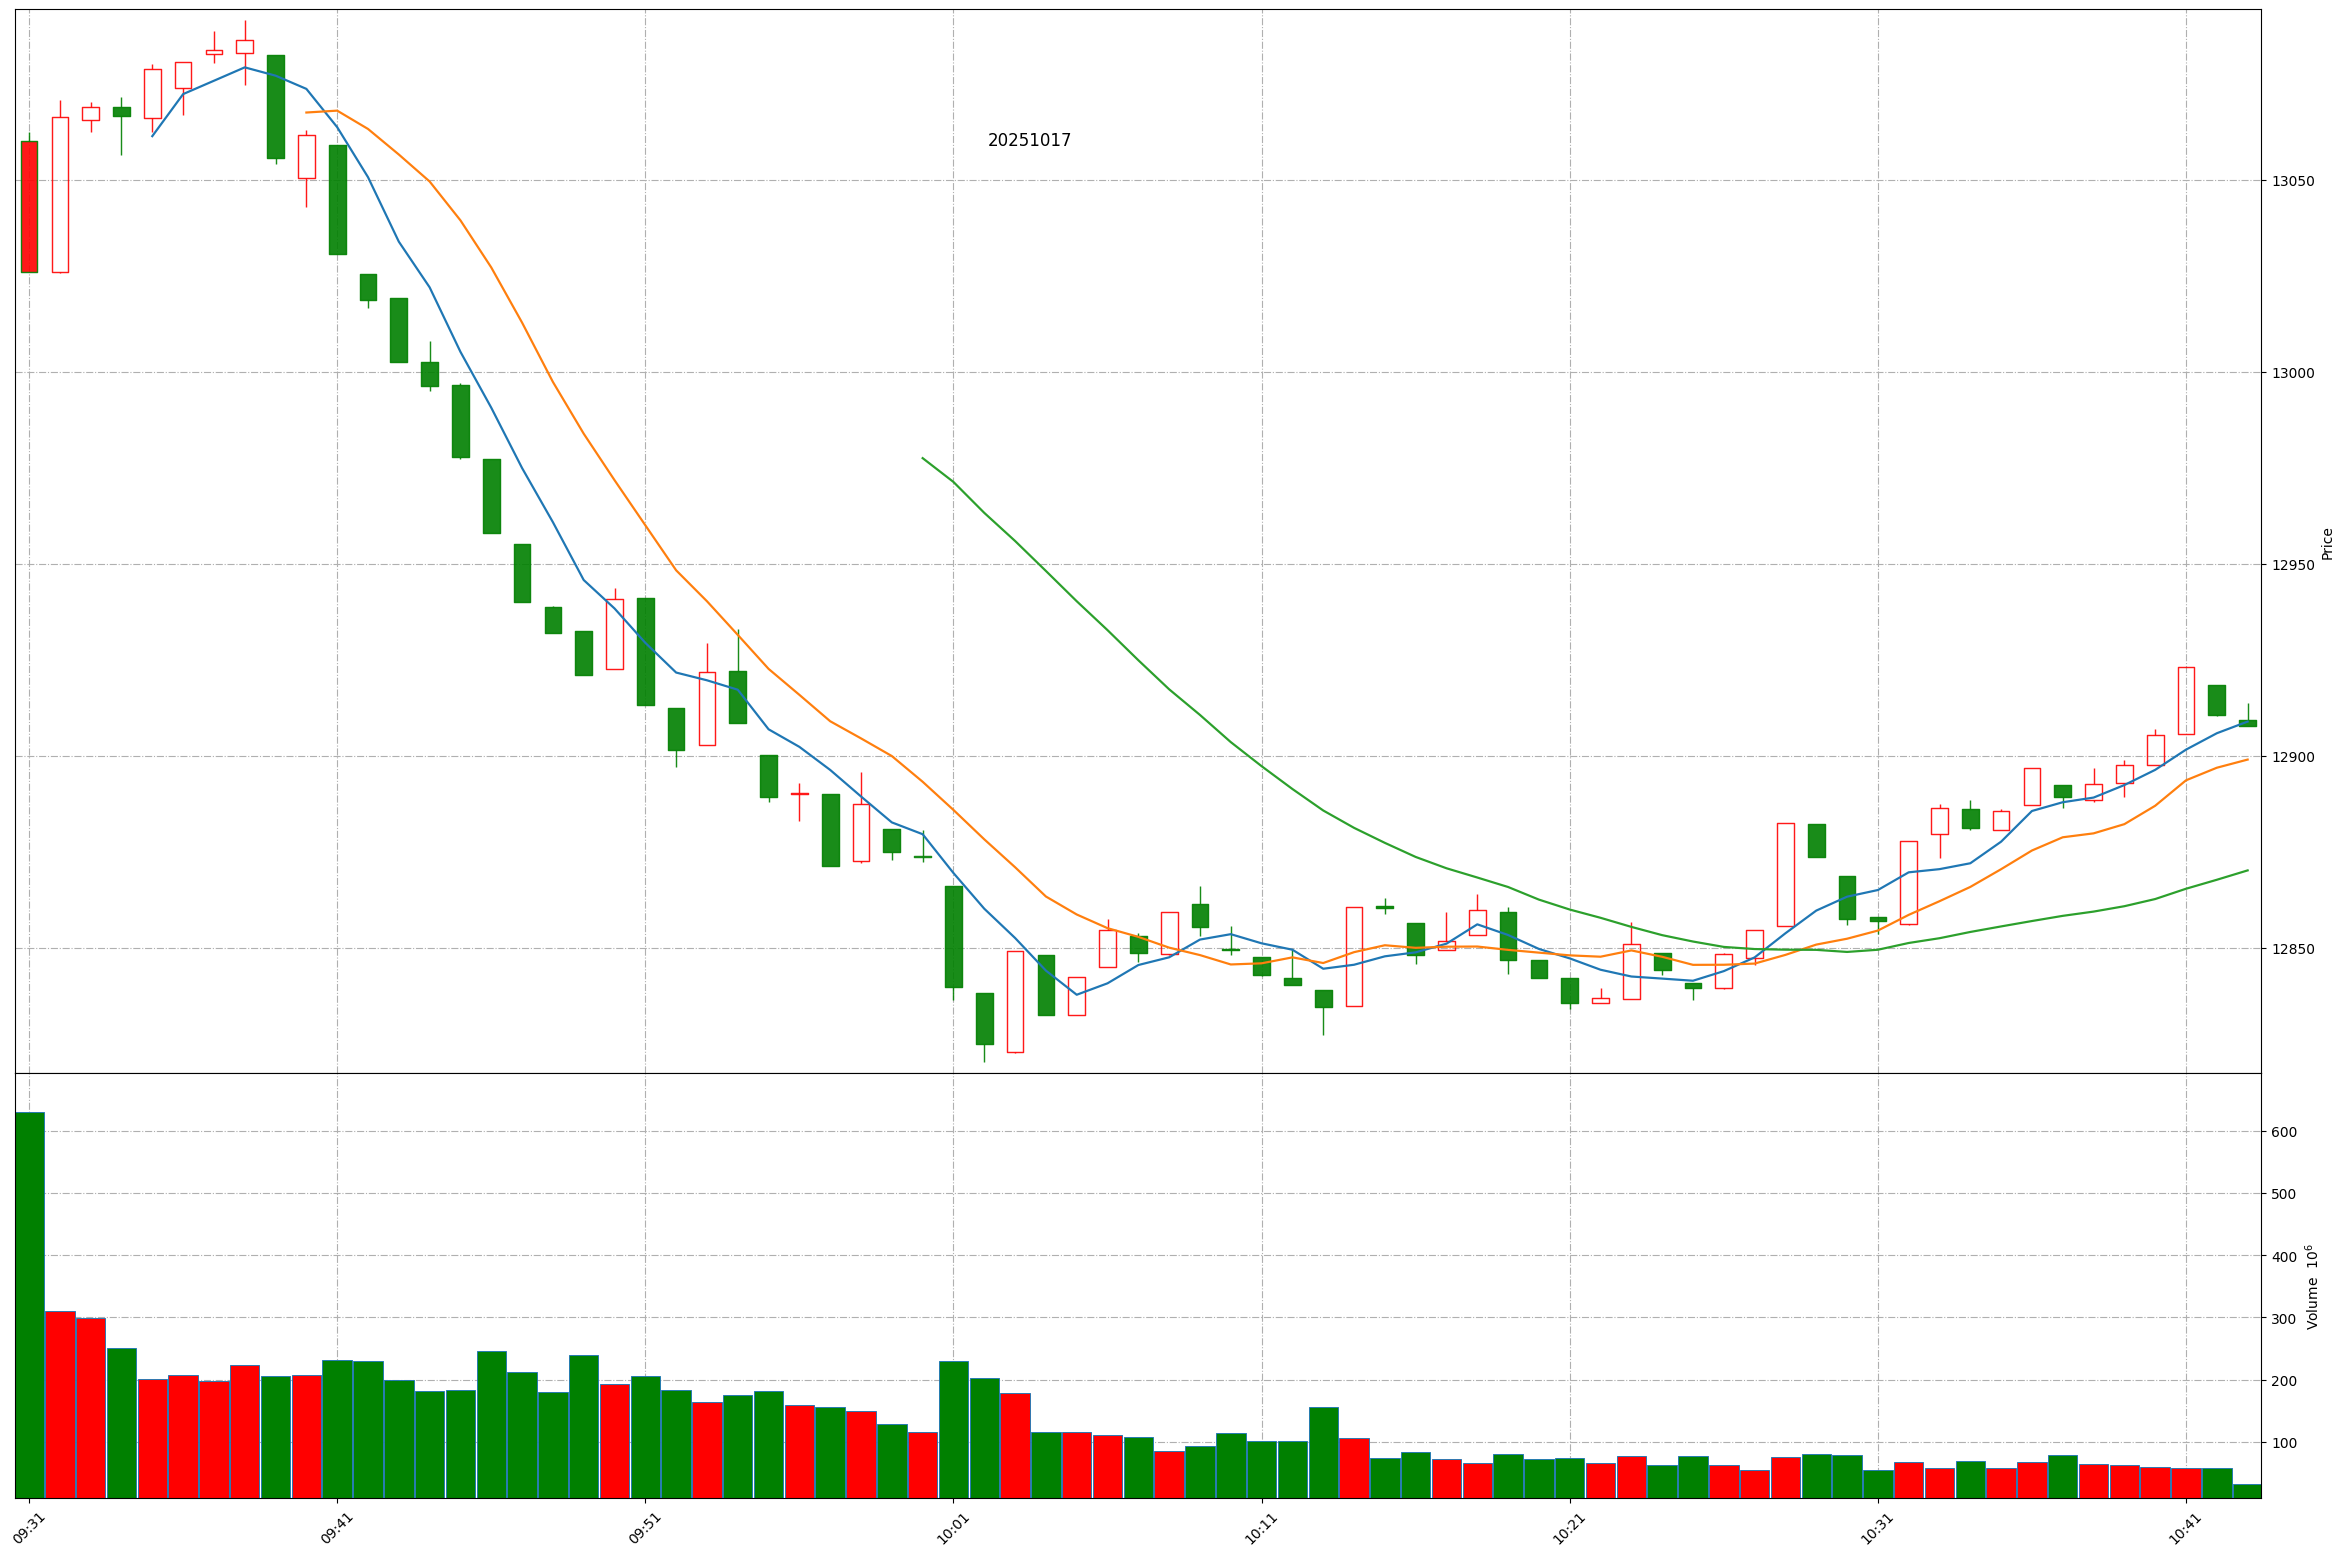
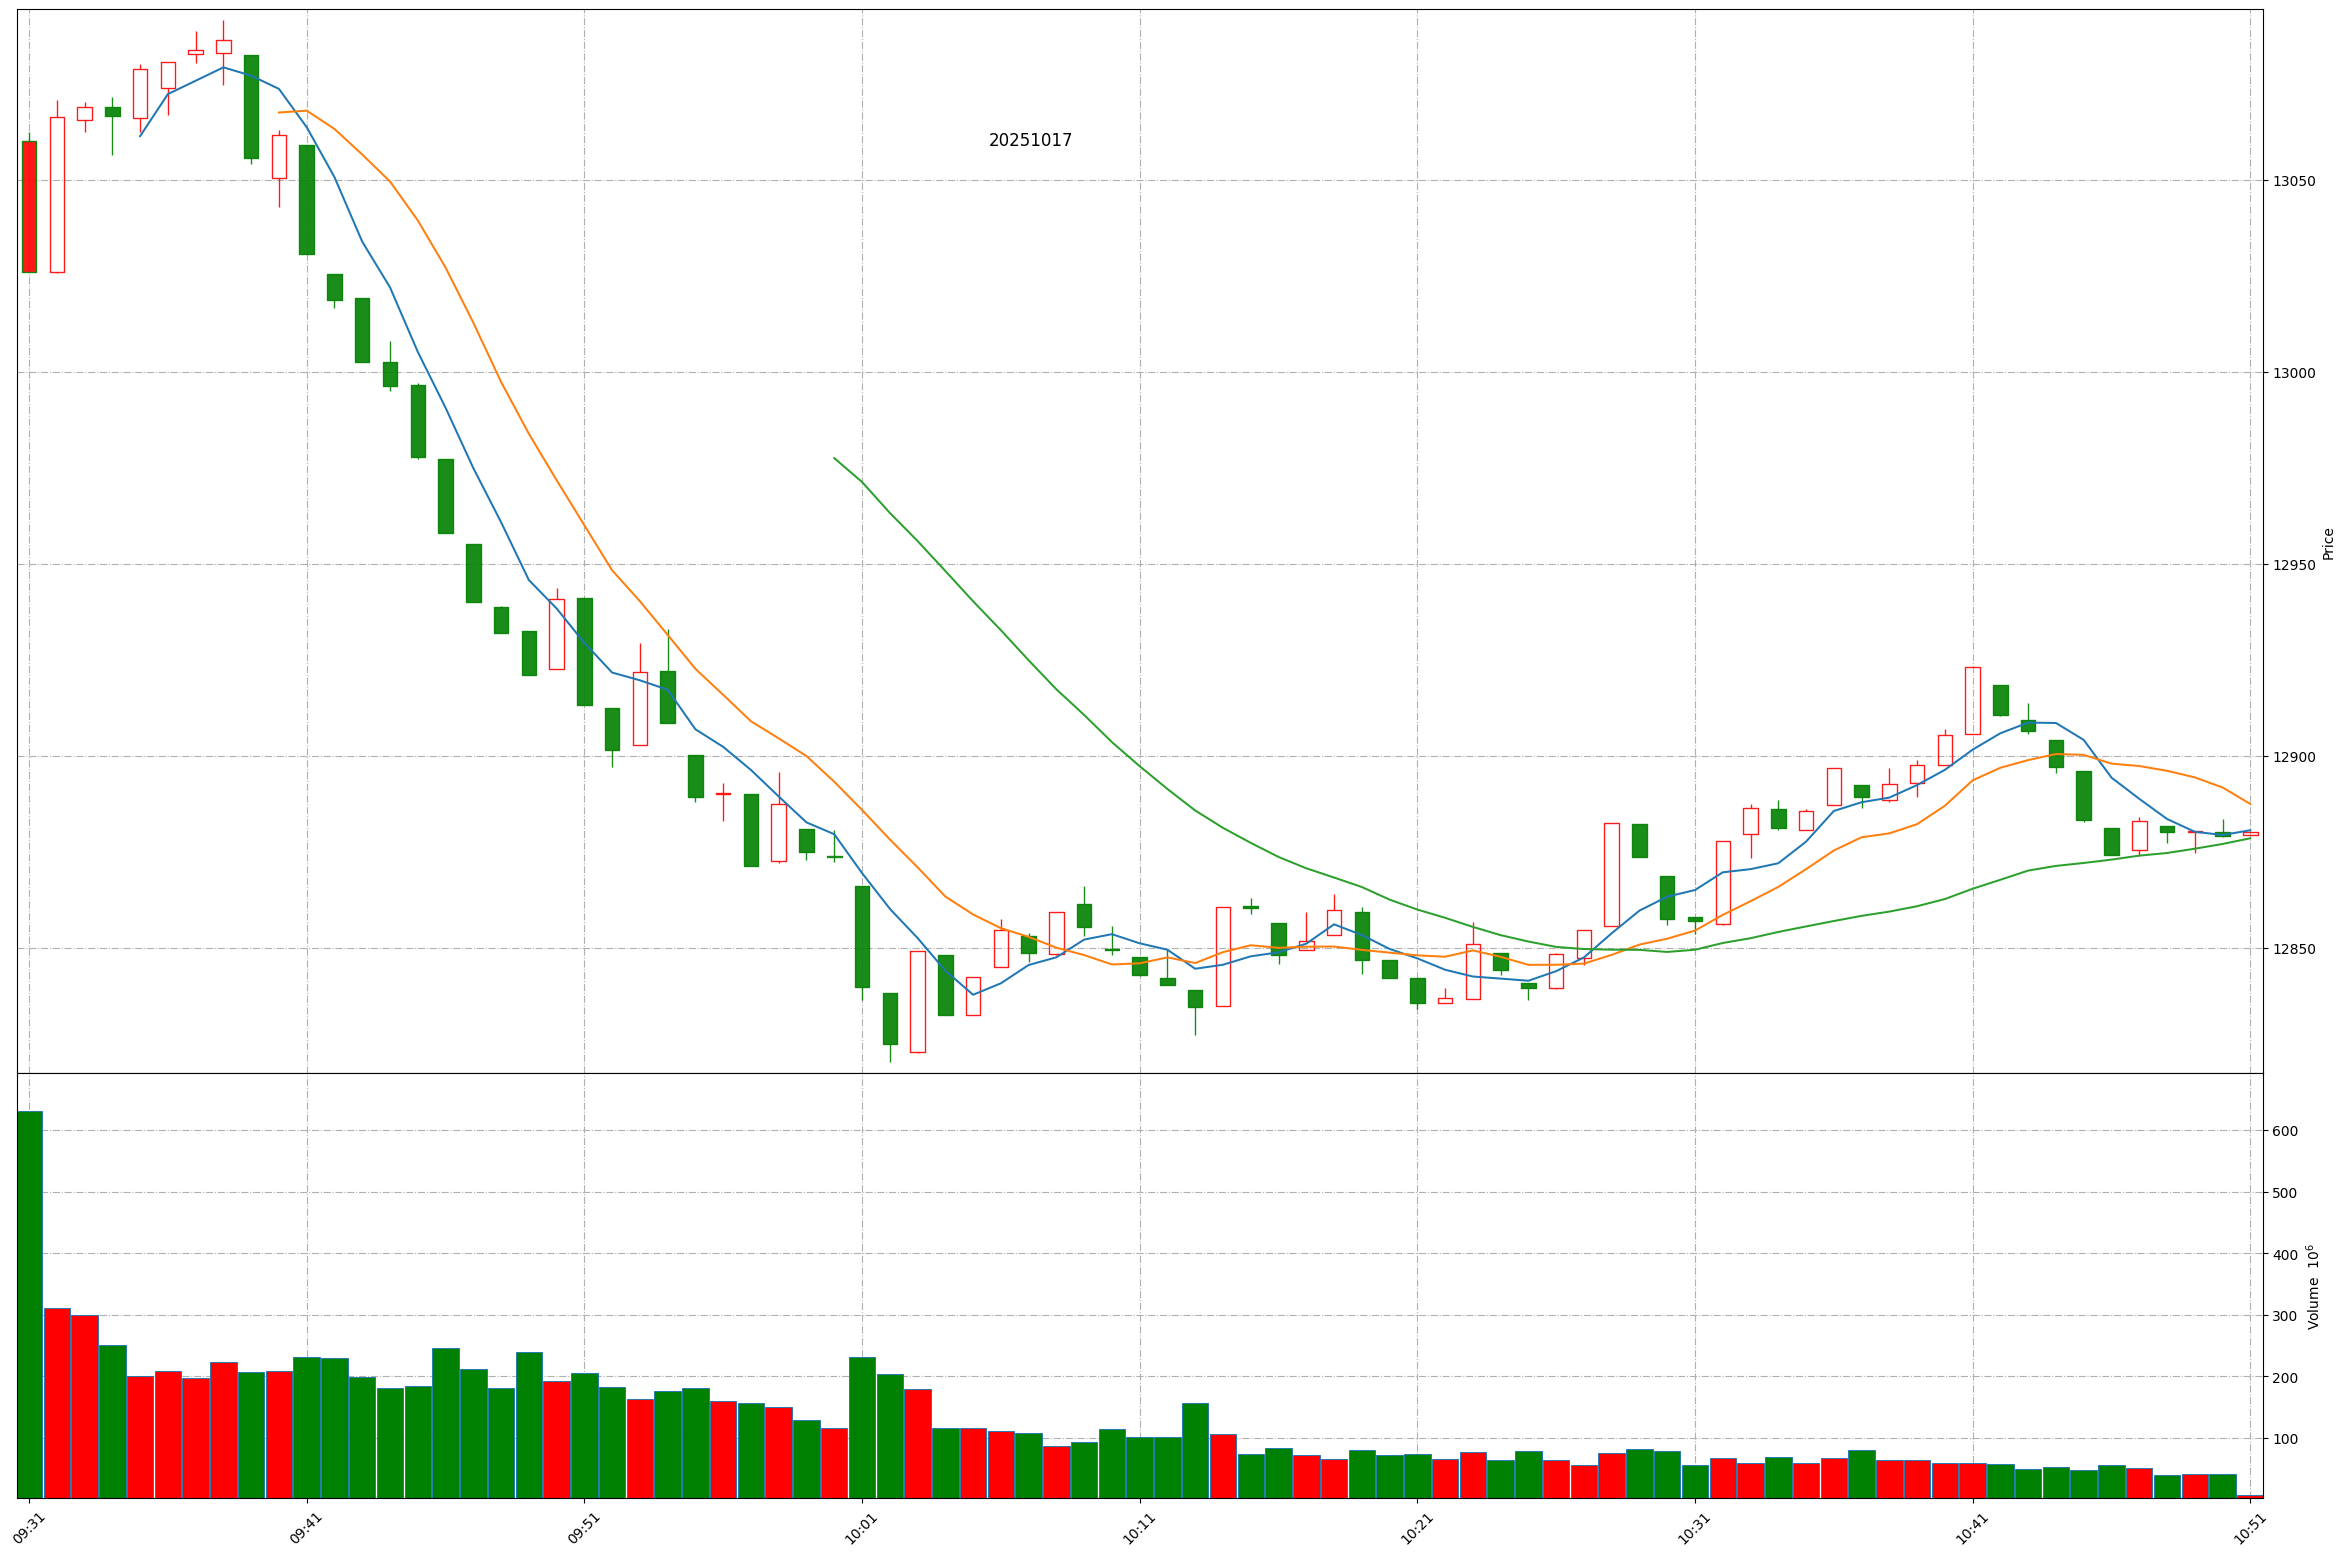
Github action update at 2025-10-17 10:50:30.

Changed region(s): [[0.0, 0.0308, 0.9654, 0.6787], [0.0, 0.8329, 0.9654, 0.9871]]

diff --git a/README.md b/README.md
@@ -1,11 +1,11 @@
 
 # Daily-A-share-market-quotes 每日 A 股指数（5min 更新）- 20251017
 
-### 上证指数 20251017 10:42
+### 上证指数 20251017 10:50
 ![](./fig/2025/10/20251017-sh000001.png)
 
-### 深证成指 20251017 10:42
+### 深证成指 20251017 10:50
 ![](./fig/2025/10/20251017-sz399001.png)
 
-### 北证50 20251017 10:42
+### 北证50 20251017 10:50
 ![](./fig/2025/10/20251017-bj899050.png)
